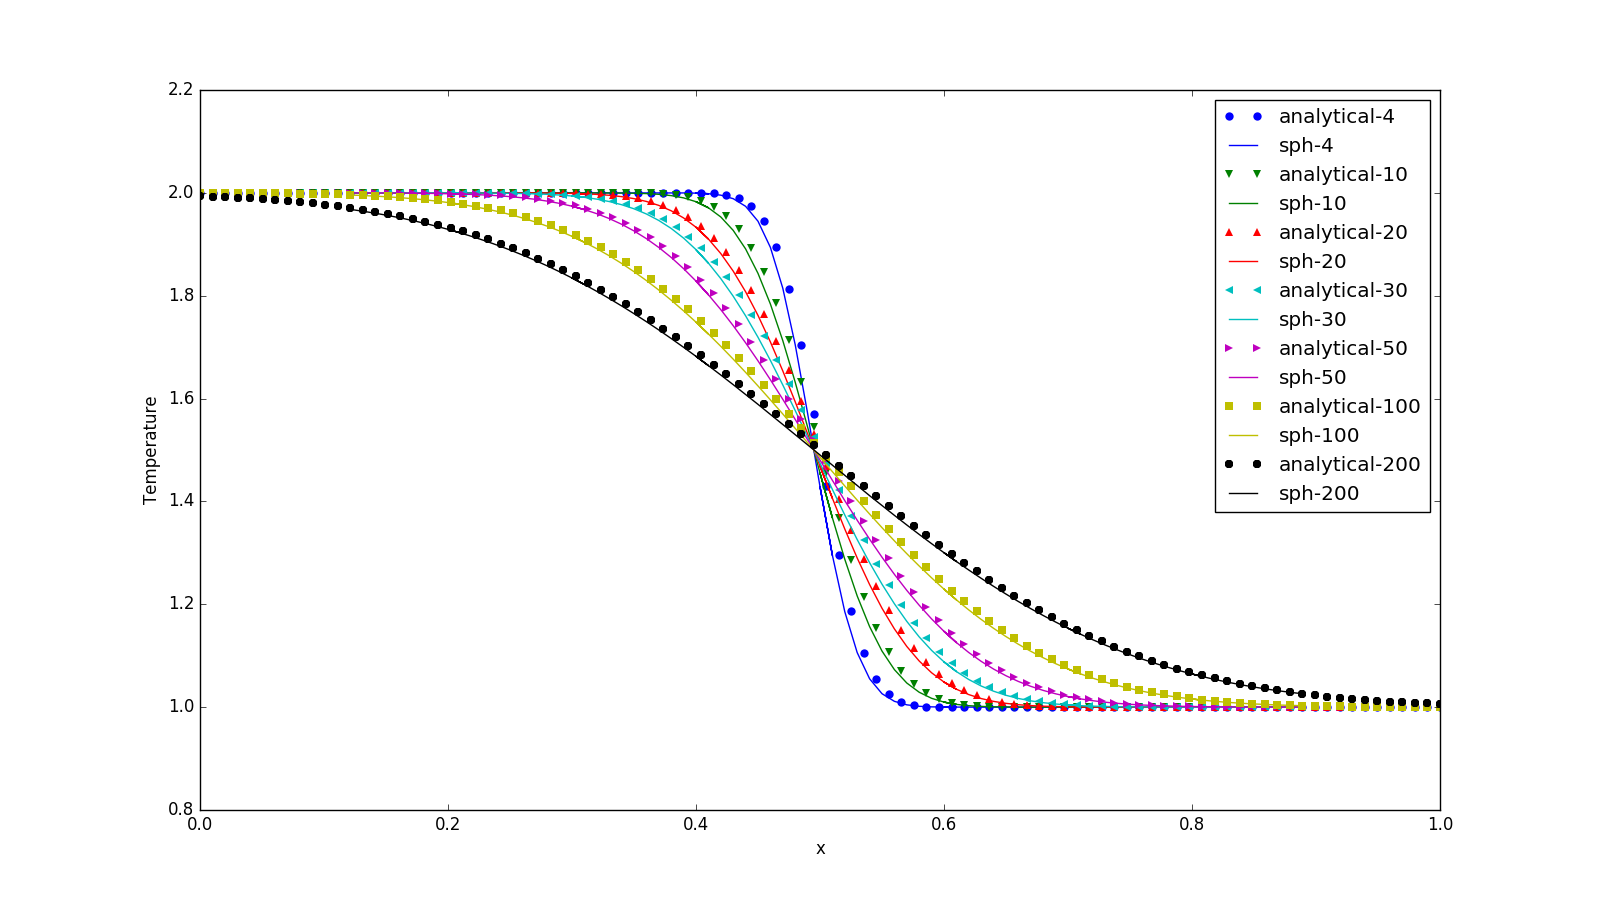
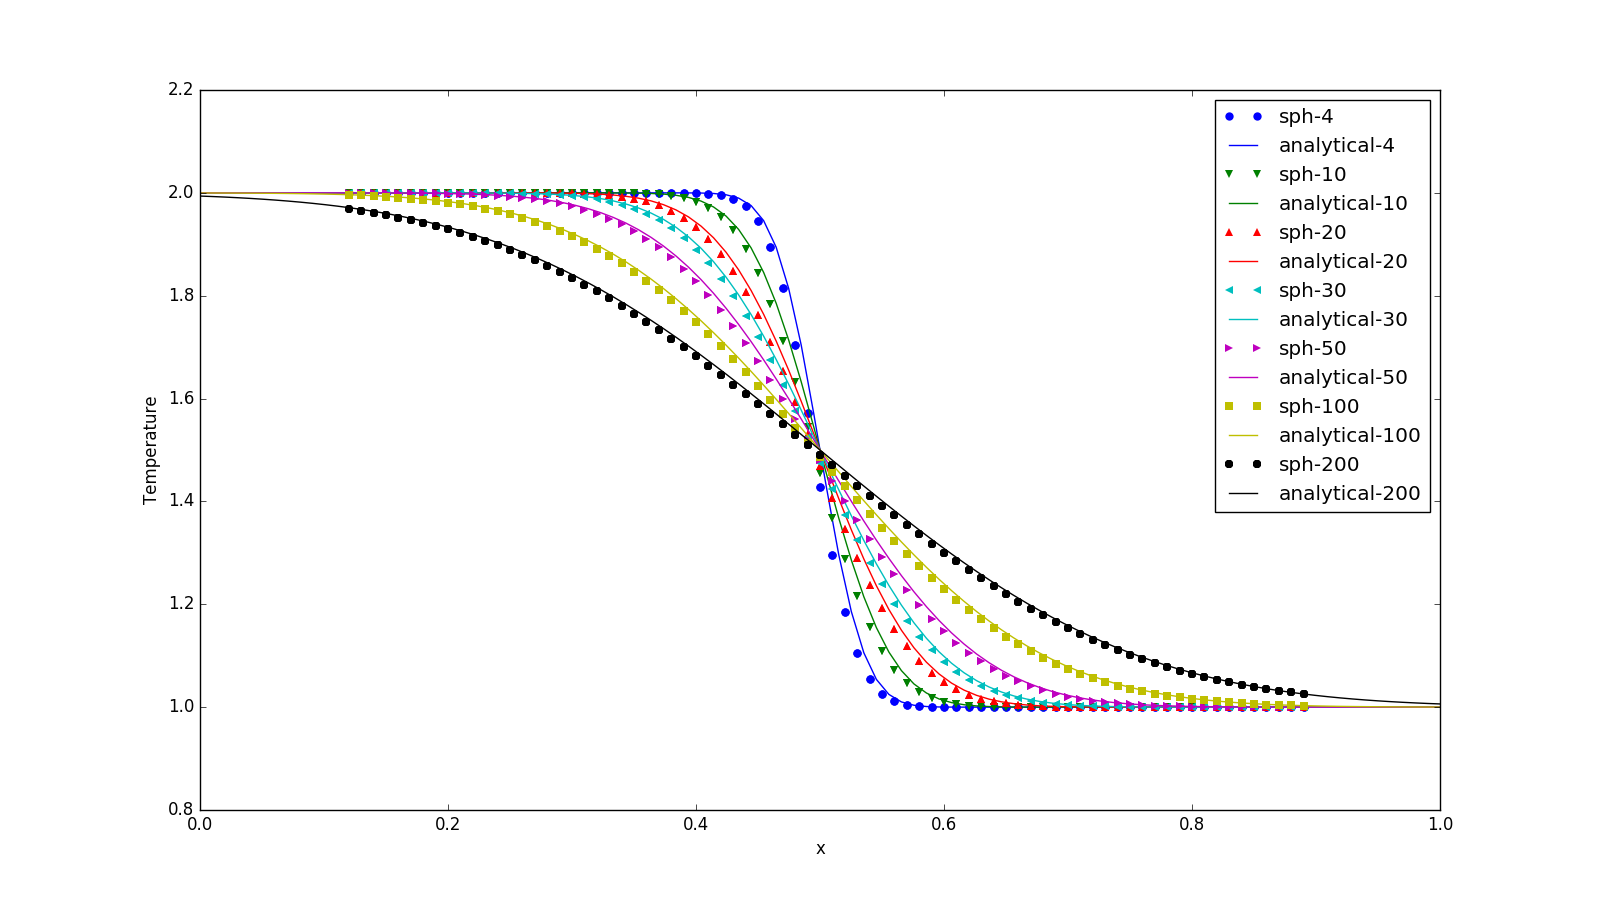
Fix label

Changed region(s): [[0.125, 0.1867, 0.9062, 0.8089], [0.7812, 0.1244, 0.875, 0.56]]

diff --git a/heatconduction/plot_graph.py b/heatconduction/plot_graph.py
@@ -34,8 +34,8 @@ for time in T:
     data = np.loadtxt("dump_{}.last".format(time), skiprows=9)
 
     color = next(ax._get_lines.prop_cycler)['color']
-    plt.plot(x, e_analytic, linestyle='', markeredgecolor='none', marker=next(marker), color=color, label="analytical-{}".format(time))
-    plt.plot(data[25:180,2], data[25:180,5], label="sph-{}".format(time), linestyle='-', color=color)
+    plt.plot(data[25:180,2], data[25:180,5], linestyle='', markeredgecolor='none', marker=next(marker), color=color, label="sph-{}".format(time))
+    plt.plot(x, e_analytic, label="analytical-{}".format(time), linestyle='-', color=color)
     
 plt.ylabel("Temperature")
 plt.ylim(0.8, 2.2)
